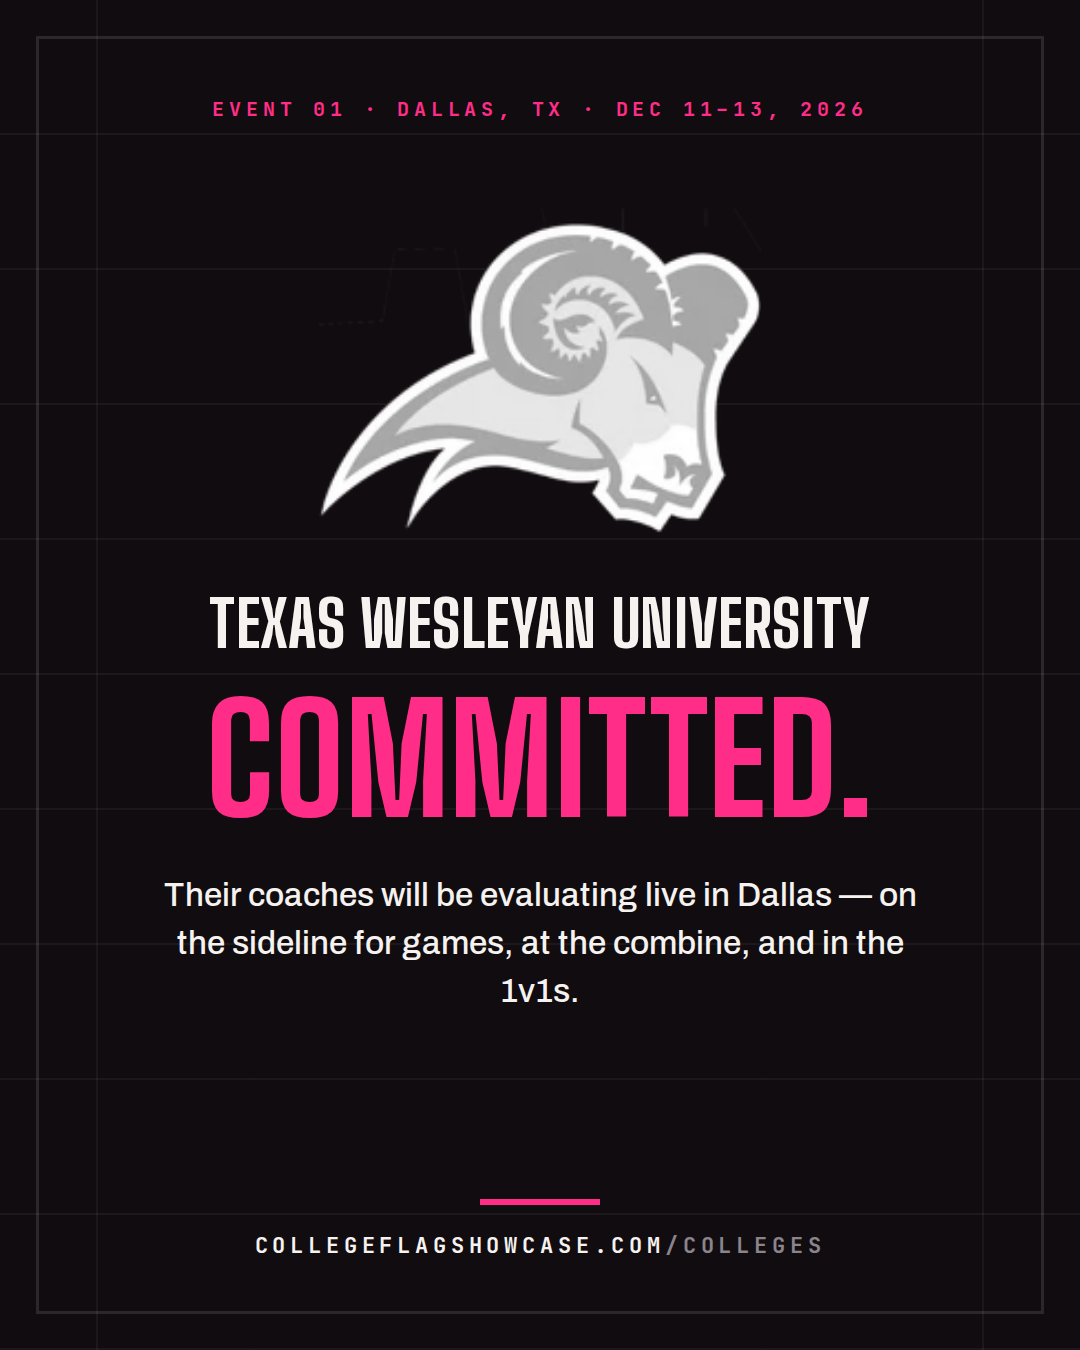
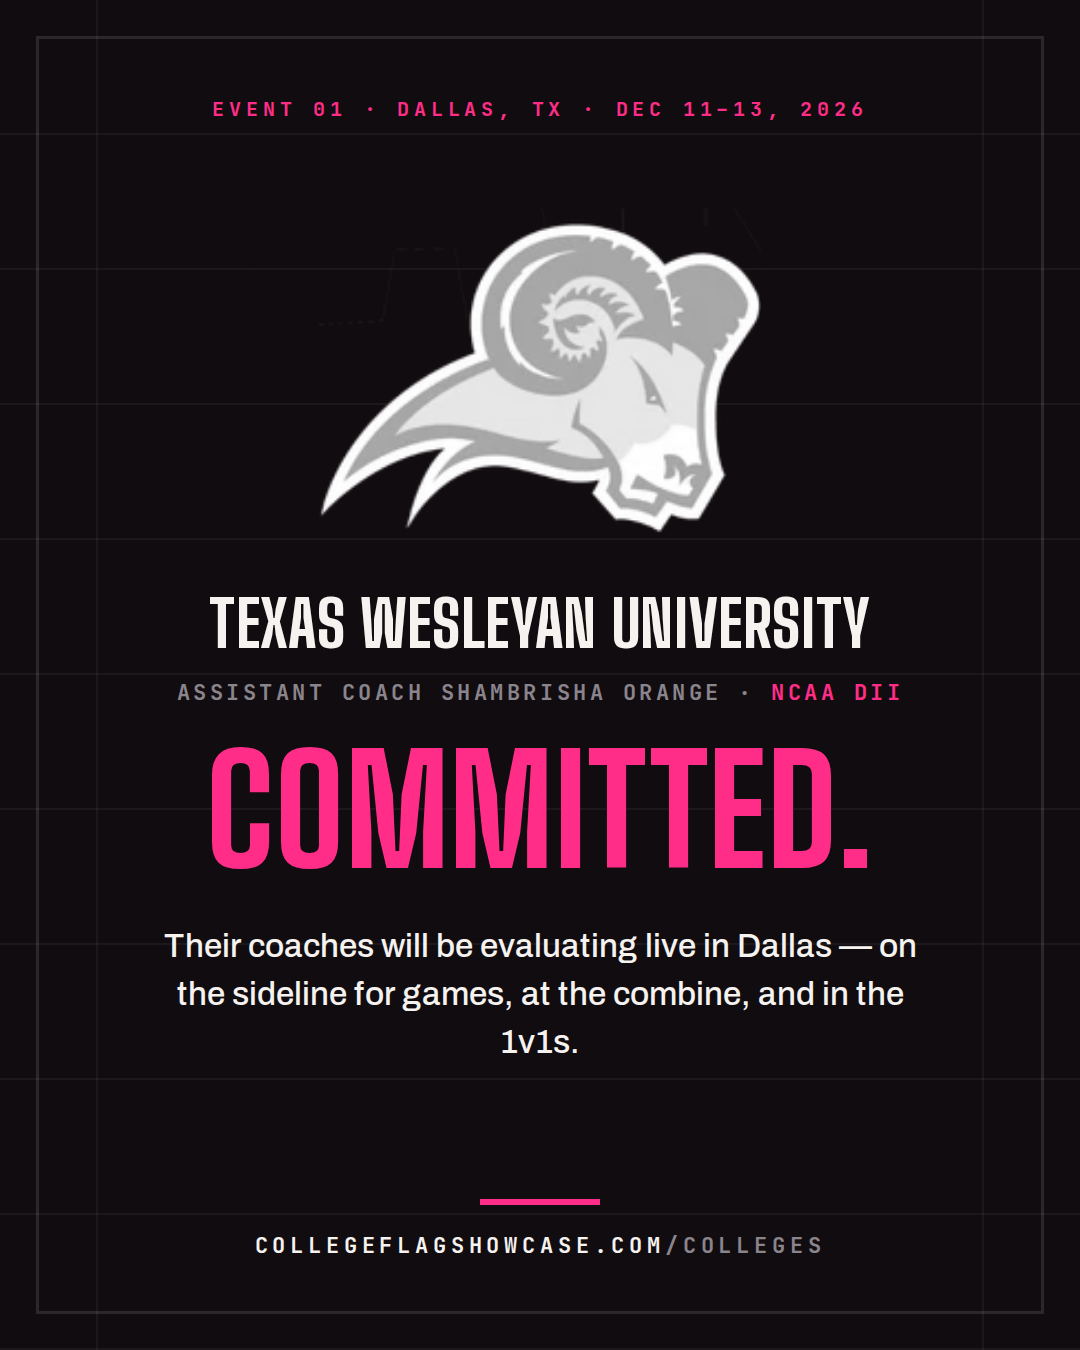
IG college template: coach name and division line
Claude-Session: https://claude.ai/code/session_019V32boShoBmRrwWenCPJFc

Changed region(s): [[0.1528, 0.4978, 0.8556, 0.7778]]

diff --git a/collateral/ig-college-committed.html b/collateral/ig-college-committed.html
@@ -13,6 +13,8 @@
                    (use the -mono knockout variant — it's built for dark backgrounds)
   {{EVENT_LINE}} — e.g. Event 01 · Dallas, TX · Dec 11–13, 2026
   {{CITY}}       — city used in the body line, e.g. Dallas
+  {{COACH}}      — coach title + name, e.g. Head Coach Mike Landis
+  {{DIVISION}}   — e.g. NCAA DIII / NCAA DII / NJCAA / NAIA
 -->
 <style>
   @font-face{font-family:"Big Shoulders Display";src:url(fonts/big-shoulders.woff2) format("woff2");font-weight:100 900}
@@ -39,6 +41,8 @@
 
   .college-logo{margin-top:84px;height:330px;max-width:640px;object-fit:contain}
   .college-name{margin-top:56px;font-family:var(--display);font-weight:800;text-transform:uppercase;line-height:1;letter-spacing:.01em;font-size:64px;max-width:860px}
+  .coach-line{margin-top:22px;font-family:var(--mono);font-size:22px;font-weight:700;letter-spacing:.16em;text-transform:uppercase;color:var(--steel)}
+  .coach-line b{color:var(--red);font-weight:700}
 
   .punch{margin-top:34px;font-family:var(--display);font-weight:800;text-transform:uppercase;line-height:.92;letter-spacing:.01em;font-size:150px;color:var(--red)}
 
@@ -58,6 +62,7 @@
     <p class="kicker">{{EVENT_LINE}}</p>
     <img class="college-logo" src="{{LOGO}}" alt="{{NAME}}" />
     <h2 class="college-name">{{NAME}}</h2>
+    <p class="coach-line">{{COACH}} &middot; <b>{{DIVISION}}</b></p>
     <h1 class="punch">Committed.</h1>
     <p class="sub">Their coaches will be evaluating live in {{CITY}} &mdash; on the sideline for games, at the combine, and in the 1v1s.</p>
     <div class="rule"></div>
